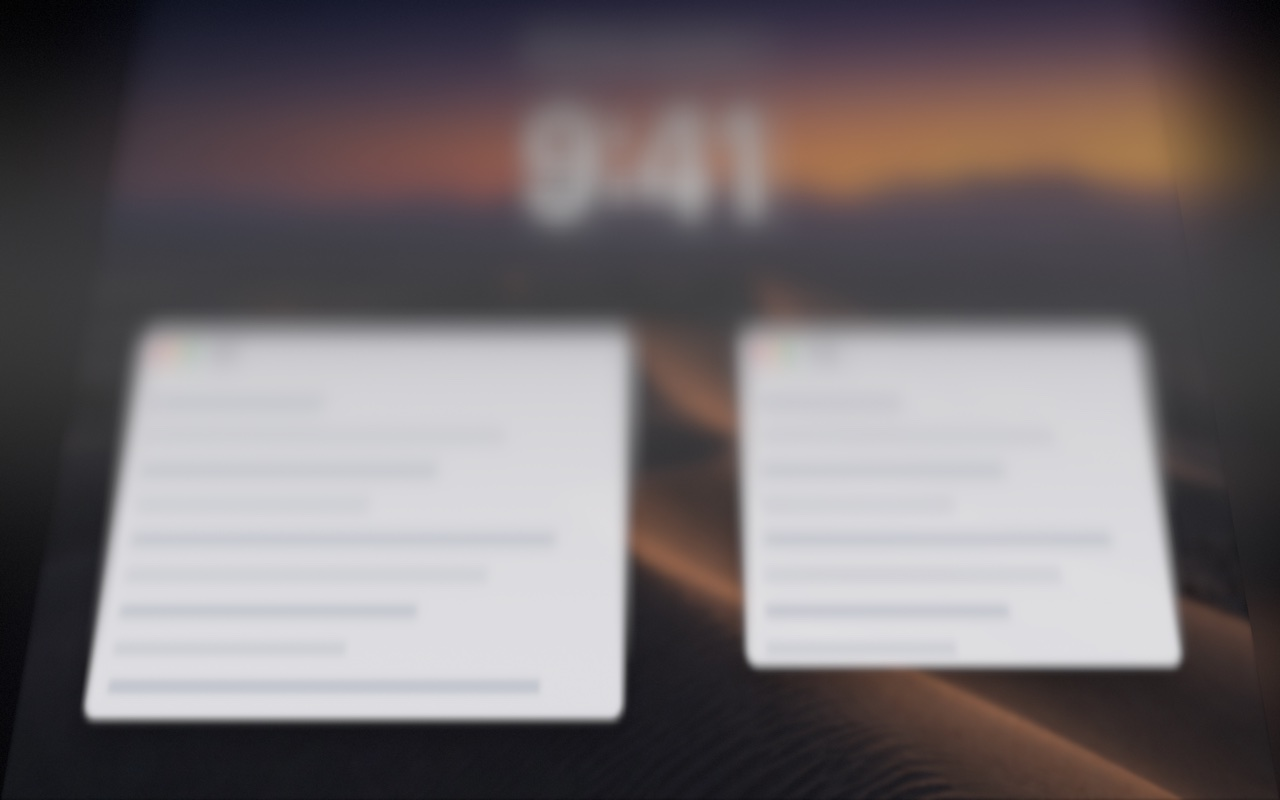
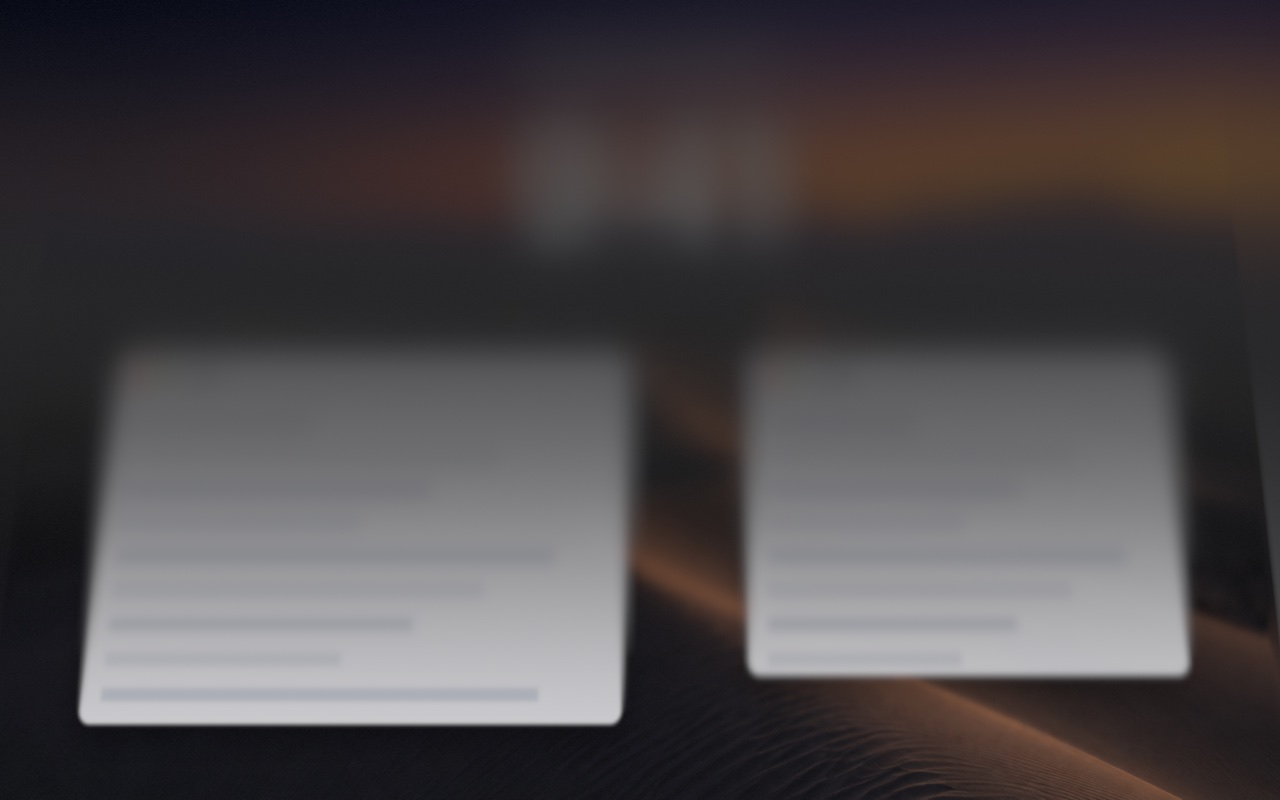
Retuned Duo look on the site: presets, darkness reach, hinge dim; fresh style renders

diff --git a/src/fold-math.js b/src/fold-math.js
@@ -1,9 +1,9 @@
 // Ported from the app's DuoCore: FoldGeometry, Homography, FoldCurve.
 
 export const presets = {
-  duo:       { startAngle: 100, span: 60, blurRadius: 72,  blurFloor: 0.06, dimming: 1,   dimStart: 0.12, depth: 1,   eyeDistance: 2.6, eyeHeight: 0.15, sheen: 0.5,  grain: 0.5 },
-  soft:      { startAngle: 95,  span: 45, blurRadius: 48,  blurFloor: 0.06, dimming: 0.7, dimStart: 0.12, depth: 0.8, eyeDistance: 2.6, eyeHeight: 0.15, sheen: 0.35, grain: 0.5 },
-  cinematic: { startAngle: 110, span: 75, blurRadius: 110, blurFloor: 0.06, dimming: 1,   dimStart: 0.12, depth: 1.3, eyeDistance: 2.1, eyeHeight: 0.15, sheen: 0.7,  grain: 0.5 },
+  duo:       { startAngle: 95,  span: 60, blurRadius: 120, blurFloor: 0, dimming: 1,   dimStart: 0, dimReach: 0.55, dimHingeFloor: 0.2,  depth: 1,   eyeDistance: 4.0, eyeHeight: 0, sheen: 0.3,  grain: 0.5 },
+  soft:      { startAngle: 90,  span: 50, blurRadius: 70,  blurFloor: 0, dimming: 0.7, dimStart: 0, dimReach: 0.75, dimHingeFloor: 0.1,  depth: 0.8, eyeDistance: 4.0, eyeHeight: 0, sheen: 0.25, grain: 0.5 },
+  cinematic: { startAngle: 105, span: 70, blurRadius: 150, blurFloor: 0, dimming: 1,   dimStart: 0, dimReach: 0.5,  dimHingeFloor: 0.25, depth: 1.2, eyeDistance: 3.0, eyeHeight: 0, sheen: 0.5,  grain: 0.5 },
 };
 
 export const smoothstep = t => { t = Math.min(Math.max(t, 0), 1); return t * t * (3 - 2 * t); };
@@ -67,8 +67,8 @@ export function frame(effect, W, H, angle) {
   const envelope = 4 * progress * (1 - progress);
   return {
     inverse, visibleTop, progress,
-    blurStrength: Math.pow(progress, 1.45),
-    dimStrength: Math.pow(progress, 0.9),
+    blurStrength: Math.pow(progress, 1.6),
+    dimStrength: Math.pow(progress, 0.7),
     sheenAmount: effect.sheen * 0.16 * Math.pow(envelope, 1.5),
     sheenPos: 0.15 + 0.75 * progress,
   };

diff --git a/src/fold-shader.js b/src/fold-shader.js
@@ -17,7 +17,7 @@ export const fragmentShader = /* glsl */`
   uniform sampler2D picture;
   uniform mat3 toPicture;
   uniform vec2 screenSize, paddedOrigin, paddedSize;
-  uniform float textureScale, maxRadius, blurStrength, blurFloor, maxDim, maxLevel, dimStart, dimStrength, visibleTop, sheenAmount, sheenPos, grain, time, brightness;
+  uniform float textureScale, maxRadius, blurStrength, blurFloor, maxDim, maxLevel, dimStart, dimReach, dimHinge, dimStrength, visibleTop, sheenAmount, sheenPos, grain, time, brightness;
   float hash(vec2 p) { return fract(sin(dot(p, vec2(12.9898, 78.233))) * 43758.5453); }
   void main() {
     vec2 screenPoint = vUv * screenSize;
@@ -47,9 +47,9 @@ export const fragmentShader = /* glsl */`
     }
     float glowReach = max(1.6 * maxRadius / textureScale, 48.0);
     colour *= mix(1.0, 0.45, smoothstep(0.0, glowReach * 2.5, outside));
-    float spread = clamp((g - dimStart) / max(1.0 - dimStart, 0.05), 0.0, 1.0);
-    float dim = dimStrength * pow(spread, 1.9) * maxDim;
-    colour *= pow(1.0 - dim, 1.6);
+    float spread = smoothstep(dimStart, max(dimReach, dimStart + 0.05), g);
+    float dim = dimStrength * (dimHinge + (1.0 - dimHinge) * spread) * maxDim;
+    colour *= pow(1.0 - dim, 2.0);
     if (sheenAmount > 0.0005) {
       float band = exp(-pow((g - sheenPos) / 0.22, 2.0));
       vec3 average = textureLod(picture, vec2(0.5), maxLevel).rgb;

diff --git a/src/main.js b/src/main.js
@@ -58,7 +58,7 @@ const uniforms = {
   textureScale: { value: 1 },
   maxRadius: { value: effect.blurRadius },
   blurStrength: { value: 0 }, blurFloor: { value: effect.blurFloor }, maxDim: { value: effect.dimming }, maxLevel: { value: 10 },
-  dimStart: { value: effect.dimStart }, dimStrength: { value: 0 }, visibleTop: { value: 1 },
+  dimStart: { value: effect.dimStart }, dimReach: { value: effect.dimReach }, dimHinge: { value: effect.dimHingeFloor }, dimStrength: { value: 0 }, visibleTop: { value: 1 },
   sheenAmount: { value: 0 }, sheenPos: { value: 0 }, grain: { value: effect.grain }, time: { value: 0 }, brightness: { value: 1 },
 };
 const screenMaterial = new THREE.ShaderMaterial({ uniforms, vertexShader, fragmentShader, glslVersion: THREE.GLSL3 });
